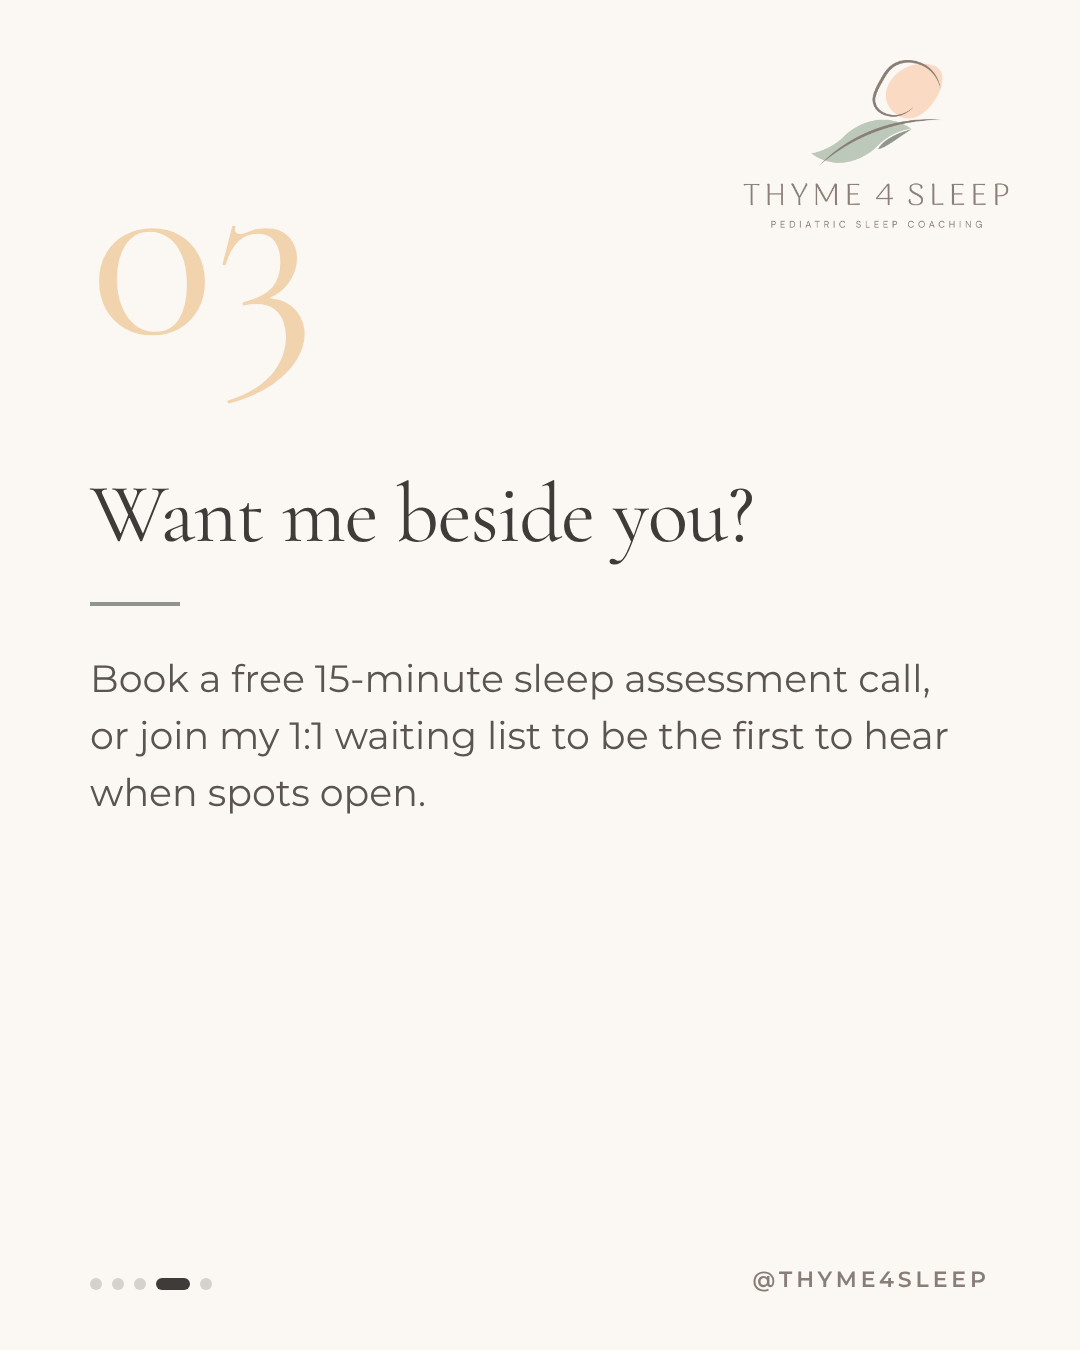
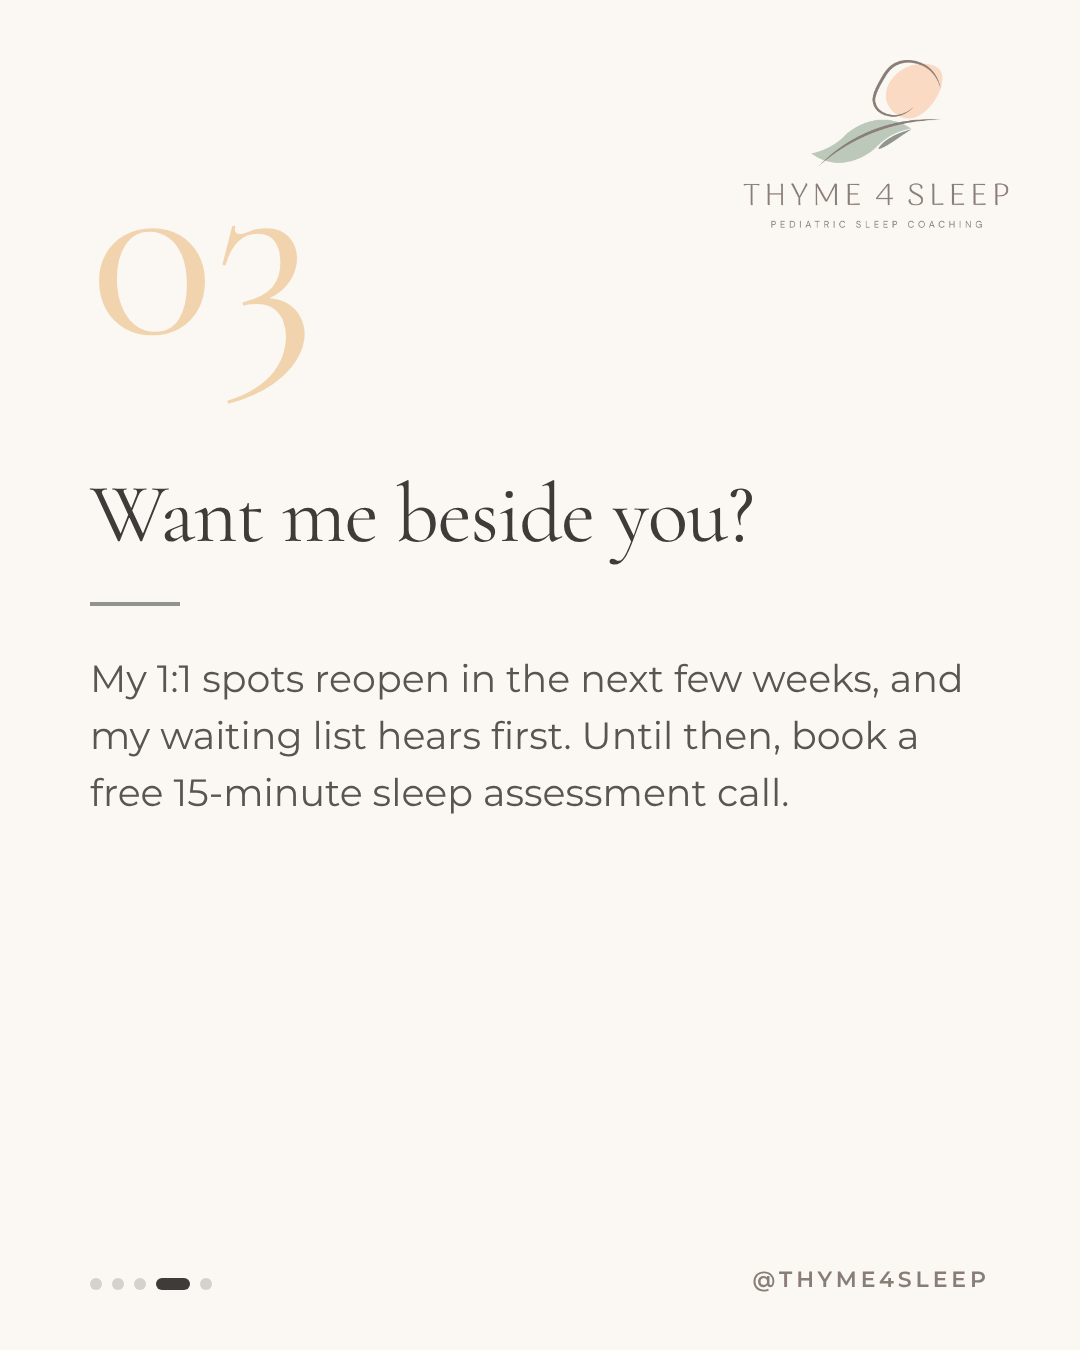
1:1 reopens soon: update waiting-list wording
Emails and the check-in page no longer say Georgia is on maternity leave; 1:1 spots reopen
very soon and the waiting list hears first. The "I'm back" carousel slide 4 and caption say
spots reopen in the next few weeks.

Claude-Session: https://claude.ai/code/session_016C6afFKqtu8sshRjZeDzo6

Changed region(s): [[0.0917, 0.4978, 0.8861, 0.6222]]

diff --git a/src/data/social.ts b/src/data/social.ts
@@ -25,7 +25,7 @@ export const CAROUSEL_BACK = [
   { kind: 'cover', title: 'I’m back,', accent: 'and so glad you’re here.', sub: 'After maternity leave', img: 'reset-to-rest/yawn.jpg' },
   { kind: 'point', n: '01', title: 'Free, whenever you need it', body: 'The Gentle Sleep Reset guide and my 2‑minute Sleep Snapshot quiz. A calm place to start after a rough patch.' },
   { kind: 'point', n: '02', title: 'Do it yourself, gently', body: 'From Reset to Rest, for fewer night wakings once sleep feels steady. The Calm Nights Method, for changing how your child falls asleep.' },
-  { kind: 'point', n: '03', title: 'Want me beside you?', body: 'Book a free 15-minute sleep assessment call, or join my 1:1 waiting list to be the first to hear when spots open.' },
+  { kind: 'point', n: '03', title: 'Want me beside you?', body: 'My 1:1 spots reopen in the next few weeks, and my waiting list hears first. Until then, book a free 15-minute sleep assessment call.' },
   { kind: 'cta', title: 'Ready when you are.', body: 'Book your free call — link in bio.', img: 'reset-to-rest/giggle.jpg' },
 ];
 
@@ -67,7 +67,7 @@ export const CAPTIONS = [
   { for: 'Carousel · 3–5 day reset', text: 'Sleep fell apart after a rough patch? Before you change everything, do less — more consistently. 🌿\n\nFor the next 3–5 days: keep bedtime within the same 30-minute window, keep the wind-down predictable, and respond to wake-ups the same calm way every time. That’s it.\n\nMy free Gentle Sleep Reset guide walks you through it step by step — link in bio.\n\n#gentlesleep #babysleeptips #sleeptraining #newmom #toddlermom #thyme4sleep' },
   { for: 'Quote card', text: 'Comfort is never removed. Confusion is. 🤍\n\nGentle sleep coaching isn’t about stepping away from your child. It’s about responding in a way that’s calm, clear and the same every time — so they always know what comes next.\n\n#gentleparenting #babysleep #nocryitout #thyme4sleep' },
   { for: 'Story · Calm Nights launch', text: 'It’s here 🌙 The Calm Nights Method — a structured, self-guided 14-night program for families ready to do it themselves. Six clear steps, two gentle starting points and check-ins at nights 4, 7 and 14. Tap the link to see if it’s right for you.' },
-  { for: "Relaunch post 2 · Carousel · I’m back", text: "Hello again, friends. 🌿\n\nMy maternity leave is over, and I'm easing back into Thyme4Sleep with a full heart. Thank you for every kind message and for your patience while I was away.\n\nHere's how I can help right now:\n\n→ Free, whenever you need it: the Gentle Sleep Reset guide and my 2-minute Sleep Snapshot quiz.\n→ Do it yourself, gently: From Reset to Rest, for fewer night wakings once sleep feels steady, and the Calm Nights Method, for changing how your child falls asleep.\n→ Want me beside you? Book a free 15-minute sleep assessment call, or join my 1:1 waiting list to be the first to hear when spots open.\n\nSwipe through, then tell me in the comments: what's the hardest part of nights for you right now? 💛\n\nLink in bio.\n\n#gentlesleep #babysleep #toddlersleep #nocryitout #babysleeptips #pediatricsleepcoach #newmom #thyme4sleep" },
+  { for: "Relaunch post 2 · Carousel · I’m back", text: "Hello again, friends. 🌿\n\nMy maternity leave is over, and I'm easing back into Thyme4Sleep with a full heart. Thank you for every kind message and for your patience while I was away.\n\nHere's how I can help right now:\n\n→ Free, whenever you need it: the Gentle Sleep Reset guide and my 2-minute Sleep Snapshot quiz.\n→ Do it yourself, gently: From Reset to Rest, for fewer night wakings once sleep feels steady, and the Calm Nights Method, for changing how your child falls asleep.\n→ Want me beside you? My 1:1 spots reopen in the next few weeks, and my waiting list hears first. Until then, book a free 15-minute sleep assessment call.\n\nSwipe through, then tell me in the comments: what's the hardest part of nights for you right now? 💛\n\nLink in bio.\n\n#gentlesleep #babysleep #toddlersleep #nocryitout #babysleeptips #pediatricsleepcoach #newmom #thyme4sleep" },
   { for: "Relaunch post 3 · Carousel · From Reset to Rest", text: "Bedtime feels calmer… so why is your little one still waking? 🌙\n\nOnce sleep has steadied, night wakings that hang on are usually kept going by one of three things: a habit loop, a timing imbalance, or needing one specific support (a feed, rocking, bouncing) to get back to sleep.\n\nFrom Reset to Rest is my gentle night-waking reduction protocol for exactly this stage. A video walkthrough and printable guide help you:\n\n1. Confirm your little one is ready\n2. Identify what's driving the wake-ups\n3. Choose one calm anchor response, held for three nights\n4. Reduce one thing at a time, gently\n\nNo cry-it-out, no rigid schedule. From $37 (shown in your currency on the site). Link in bio.\n\nNot steady yet? Start with my free Gentle Sleep Reset first. 🌿\n\n#gentlesleep #babysleep #toddlersleep #nocryitout #babysleeptips #pediatricsleepcoach #newmom #thyme4sleep #nightwaking" },
   { for: "Relaunch post 4 · Carousel · The Calm Nights Method", text: "If your little one needs a feed, rocking or you beside them to fall asleep, they'll often look for that same help at every wake-up. 🌙\n\nThe Calm Nights Method gently changes how your child falls asleep at bedtime, and nights often follow.\n\nInside:\n→ Two gentle starting points: Stay Close, or Step Out & Check\n→ 14 nights, with checkpoints at nights 4, 7 and 14\n→ A 27-page Guide & Workbook with scripts, trackers and a hard-night plan, whether you share nights with a partner or co-parent or do this on your own\n\nFor healthy children from 6 months to around 4. No cry-it-out: you stay present and responsive the whole way.\n\nFrom $97 (shown in your currency on the site). Link in bio.\n\nNot sure it's the right fit? Book a free 15-minute sleep assessment call, and I'll tell you honestly. 💛\n\n#gentlesleep #babysleep #toddlersleep #nocryitout #babysleeptips #pediatricsleepcoach #newmom #thyme4sleep #bedtimeroutine" },
 ];

diff --git a/src/data/emails.ts b/src/data/emails.ts
@@ -7,7 +7,7 @@
 //   From Reset to Rest ($37) is the next step: a gentle night-waking reduction protocol for families
 //   whose sleep has already stabilized. Calm Nights ($97) is a general self-guided framework.
 //   1:1 coaching is a plan built around the child.
-// - 1:1 booking is paused (Georgia's maternity leave): offers point to the waiting list, the free
+// - 1:1 booking reopens soon after Georgia's maternity leave: offers point to the waiting list, the free
 //   15-minute assessment call and the standalone $99 troubleshooting call. When booking reopens,
 //   swap the waiting-list lines for booking lines (the review doc has the open-booking wording).
 // - Check-ins are automated; nothing implies Georgia is watching answers in real time.
@@ -35,7 +35,7 @@ const checkIn = (n: number, open: [string, string] = ['Open my program', 'access
 // Closing lines reused across emails.
 const CALL_LINE = 'A quiz can only tell me so much. If you’d rather talk it through, book a free 15-minute sleep assessment call. You don’t need to buy anything first.';
 const CN_FOOTER = 'Would you rather have someone guide you through it? Book a free 15-minute sleep assessment call. Calm Nights is a general framework; my 1:1 coaching is a plan built around your child’s age, temperament, development, sleep history and family.';
-const WAITLIST_LINE = 'My 1:1 books are closed for now while I’m on maternity leave, but my waiting list is open. Reply “waitlist” and I’ll save your place and let you know as soon as I’m taking families again.';
+const WAITLIST_LINE = 'My 1:1 spots reopen very soon, and my waiting list hears first. Reply “waitlist” and I’ll save your place and let you know the moment I’m taking families again.';
 
 export const welcome: Email[] = [
   { day: 'Day 0 · Instantly', subject: 'Your Gentle Sleep Reset is here 🌿', preview: 'Plus the one thing to do tonight.',

diff --git a/src/data/calmNights.ts b/src/data/calmNights.ts
@@ -129,7 +129,7 @@ export const SUPPORT_SIGNALS = {
 export const COACHING_URL = '/pricing?from=calm-nights';
 export const SPECIALISED_URL = '/packages/sen?from=calm-nights';
 
-// 1:1 booking is paused while Georgia is on maternity leave. Set to true when intake reopens,
+// 1:1 booking reopens soon after Georgia's maternity leave. Set to true when intake reopens,
 // and swap the waiting-list lines in src/data/emails.ts for booking lines.
 export const ONE_TO_ONE_OPEN = false;
 export const FREE_CALL_URL = 'https://thyme4sleep.neetocal.com/free-15-minute-assessment-call';
